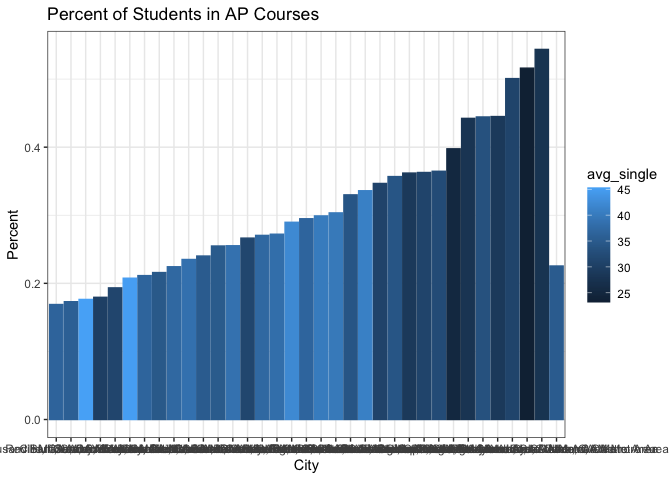
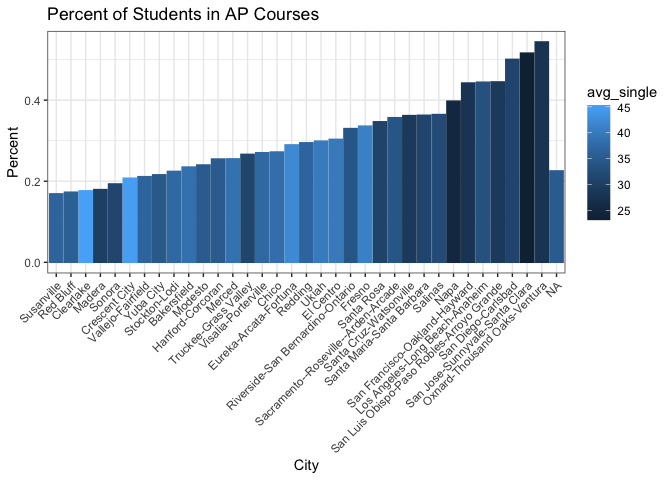
update

diff --git a/Jay's work/for_meeting_nov17.md b/Jay's work/for_meeting_nov17.md
@@ -103,7 +103,7 @@ california <- A%>%
   drop_na(msaname15)%>% #cal dataframe has 1 NA in msaname15, so drop it.
 #now need to create new column that has deviation from avg. ($60,824) 
   mutate(deviation= mean_inc - 60824)%>%
-  mutate(region = sapply(strsplit(msaname15, ","),"[", 1))
+  mutate(region = sapply(strsplit(msaname15, ","),"[", 1)) #to truncate second half of name
 ```
 
     ## `summarise()` ungrouping output (override with `.groups` argument)
@@ -157,20 +157,20 @@ CA <- data1%>%
   summarise(avg_AP= mean(ED_APENR), avg_single = mean(SE_SINGLE))%>% 
   #column called "avg_AP" that is avg % of students in AP
   #column called "avg_single" that is average % of single headed households
+  mutate(region = sapply(strsplit(msaname15, ","),"[", 1))%>%
   arrange(desc(avg_AP))
 ```
 
     ## `summarise()` ungrouping output (override with `.groups` argument)
 
 ``` r
-#CA 
-
-ggplot(CA, aes(x=reorder(msaname15, avg_AP), y=avg_AP))+
+ggplot(CA, aes(x=reorder(region, avg_AP), y=avg_AP))+
   geom_col(aes(col= avg_single, fill=avg_single))+
   labs(title="Percent of Students in AP Courses",
            y="Percent", 
            x="City")+
-  theme_bw()
+  theme_bw()+
+  theme(axis.text.x = element_text(angle = 45, hjust = 1))
 ```
 
 ![](for_meeting_nov17_files/figure-gfm/unnamed-chunk-4-1.png)<!-- -->
